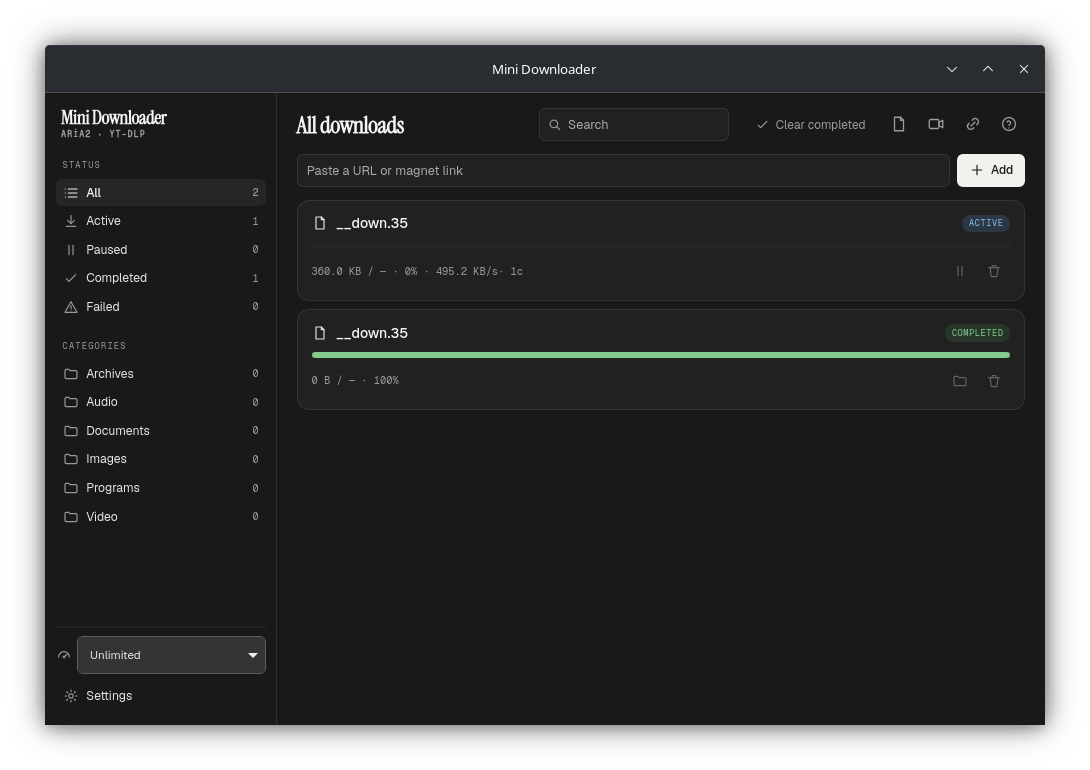
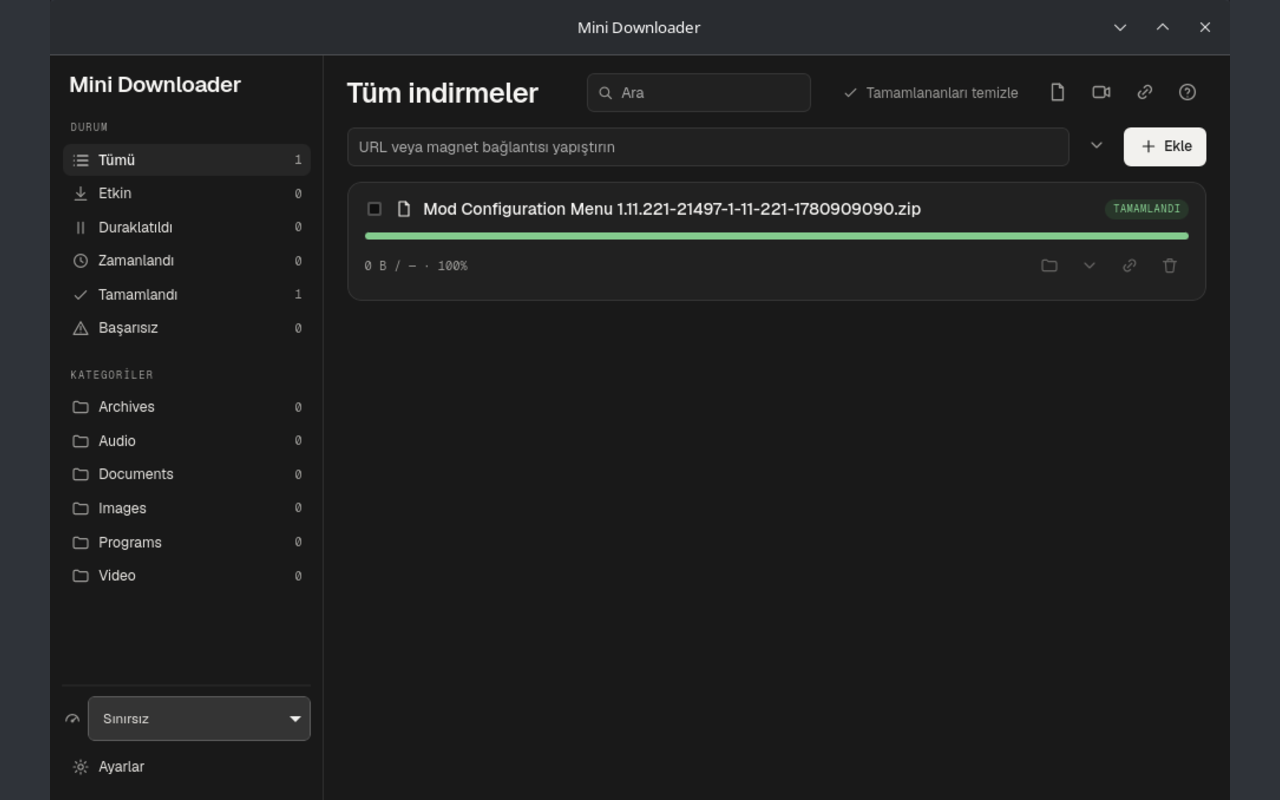
docs: refresh README for v2.0 (features, screenshot)

diff --git a/README.md b/README.md
@@ -16,19 +16,34 @@ Chromium — cookies, referer and all.
 ## Features
 
 - **Multi-connection downloads** — up to 16 segments / 16 connections per
-  server via aria2, with per-download pause/resume and global speed limits
+  server via aria2, with pause/resume, per-download and global speed limits,
+  and optional SHA-256 verification on completion
 - **Browser capture** — Firefox & Chromium extension hands downloads (with
-  cookies/referer/user-agent) to the app through native messaging
+  cookies/referer/user-agent) to the app through native messaging, with a
+  file-type blacklist and a "leave magnets to the system" mode for handing
+  types back to the browser or your torrent client
 - **Video grabbing** — yt-dlp integration: probe formats, pick quality, mux
-  with ffmpeg; in-page media sniffing (HLS/DASH)
-- **Torrents & magnets** — aria2's BitTorrent engine + magnet deep links
-- **Link grabber** — paste text/HTML, extract and batch-add links
-- **Scheduler** — pause/resume-all or speed-limit rules per weekday/time
+  with ffmpeg; **playlists** with an entry picker, subtitles, audio extraction
+  (mp3/m4a/opus), thumbnail embedding; in-page media sniffing (HLS/DASH)
+- **Torrents & magnets** — aria2's BitTorrent engine + magnet deep links,
+  per-torrent **file selection**, and a detail panel with per-file progress,
+  peers and pieces
+- **Packages** — batch adds, playlists and bulk browser captures group into
+  collapsible packages with aggregate progress and group actions
+- **Link grabber** — paste text/HTML, extract and batch-add links (with
+  numeric-range expansion like `file[001-050].jpg`)
+- **Scheduling** — pause/resume-all or speed-limit rules per weekday/time,
+  plus "start this download at…" for individual downloads
 - **Categories** — auto-organize finished files (Archives, Audio, Video, …)
-  into localized user folders
-- **Clipboard watcher**, system tray, autostart, desktop notifications
+  into localized user folders by extension, MIME type or source host, with
+  per-category priority
+- **Network controls** — proxy (HTTP/SOCKS), BitTorrent DHT toggle, optional
+  Landlock sandboxing of helper processes, private-address blocking
+- **Clipboard watcher**, system tray, autostart, desktop notifications,
+  on-complete actions (quit/sleep/shutdown/custom command)
 - **10 languages** — English, Türkçe, Español, Français, Deutsch, Русский,
-  العربية (RTL), 中文, 日本語, 한국어
+  العربية (RTL), 中文, 日本語, 한국어 — in the app *and* the extension
+  (which can also override the browser language)
 - Warm-monochrome minimal UI with full keyboard navigation and screen-reader
   support
 